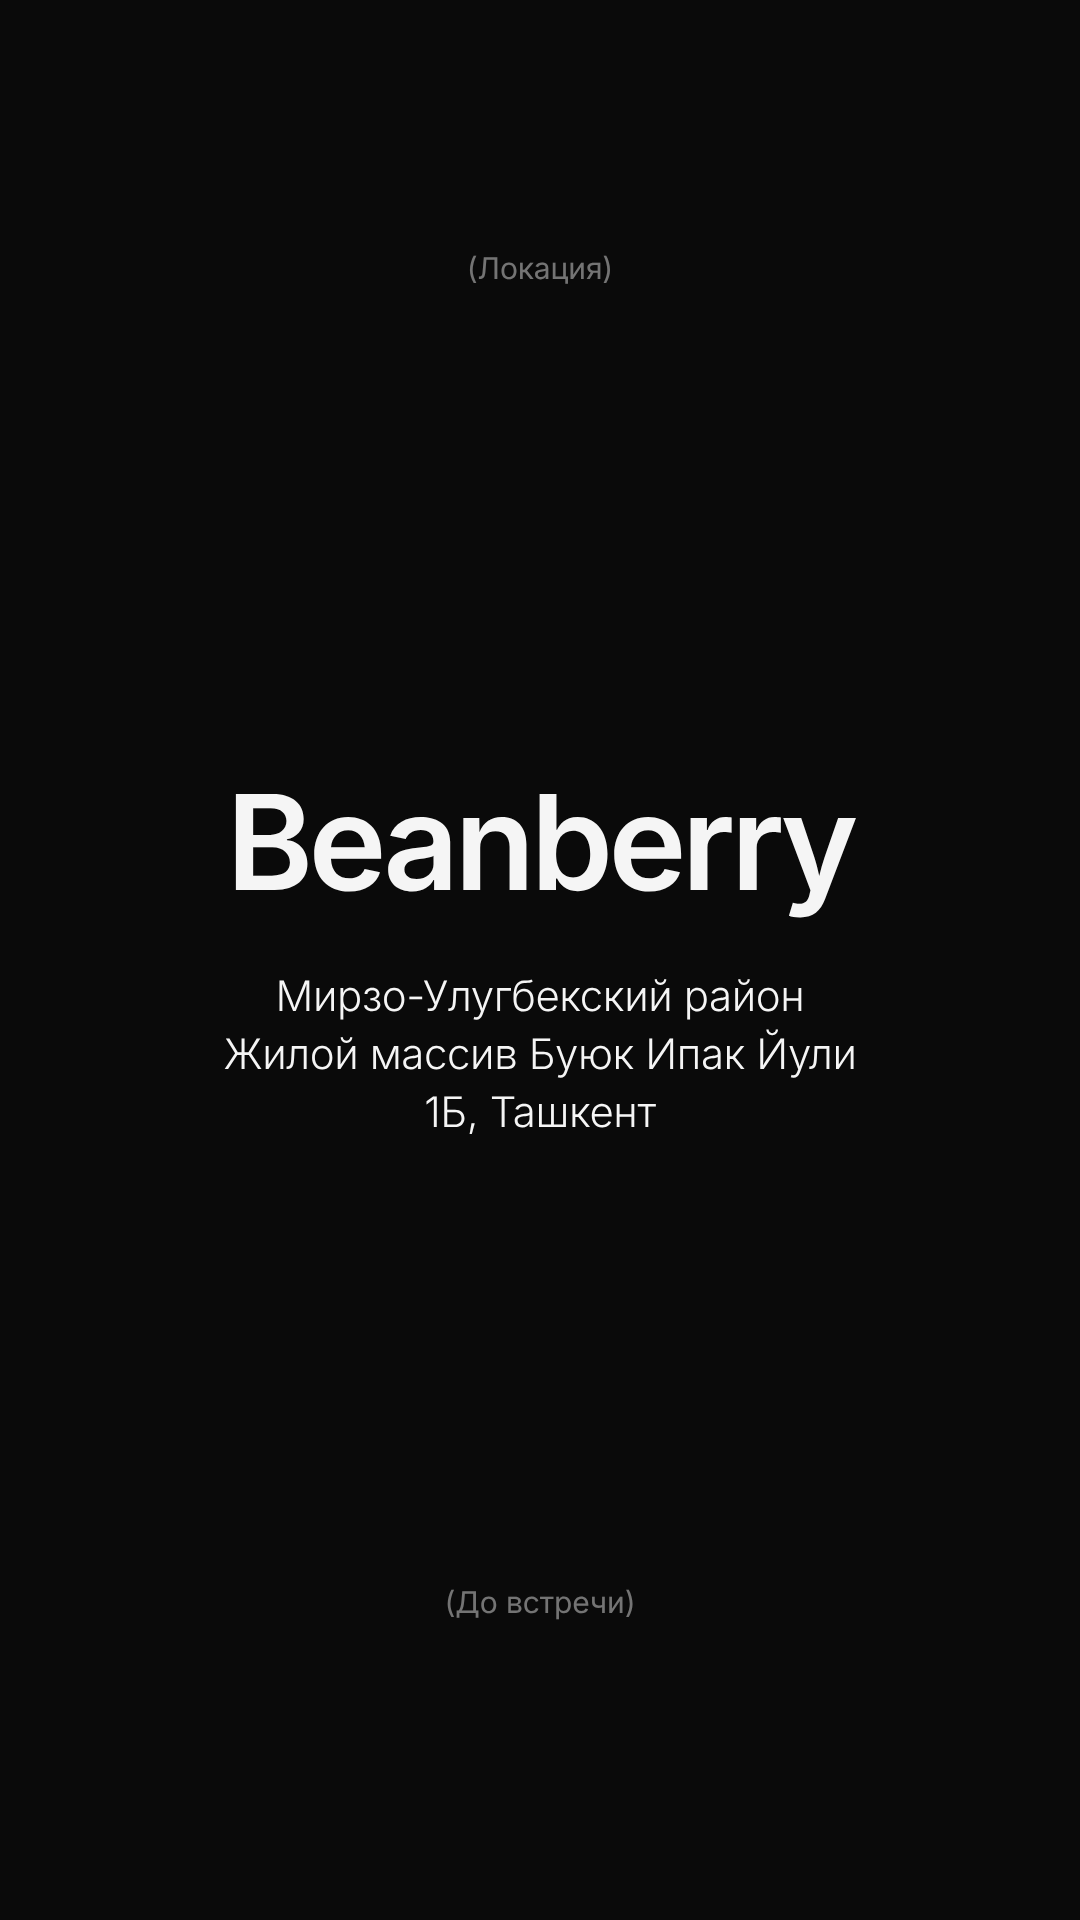
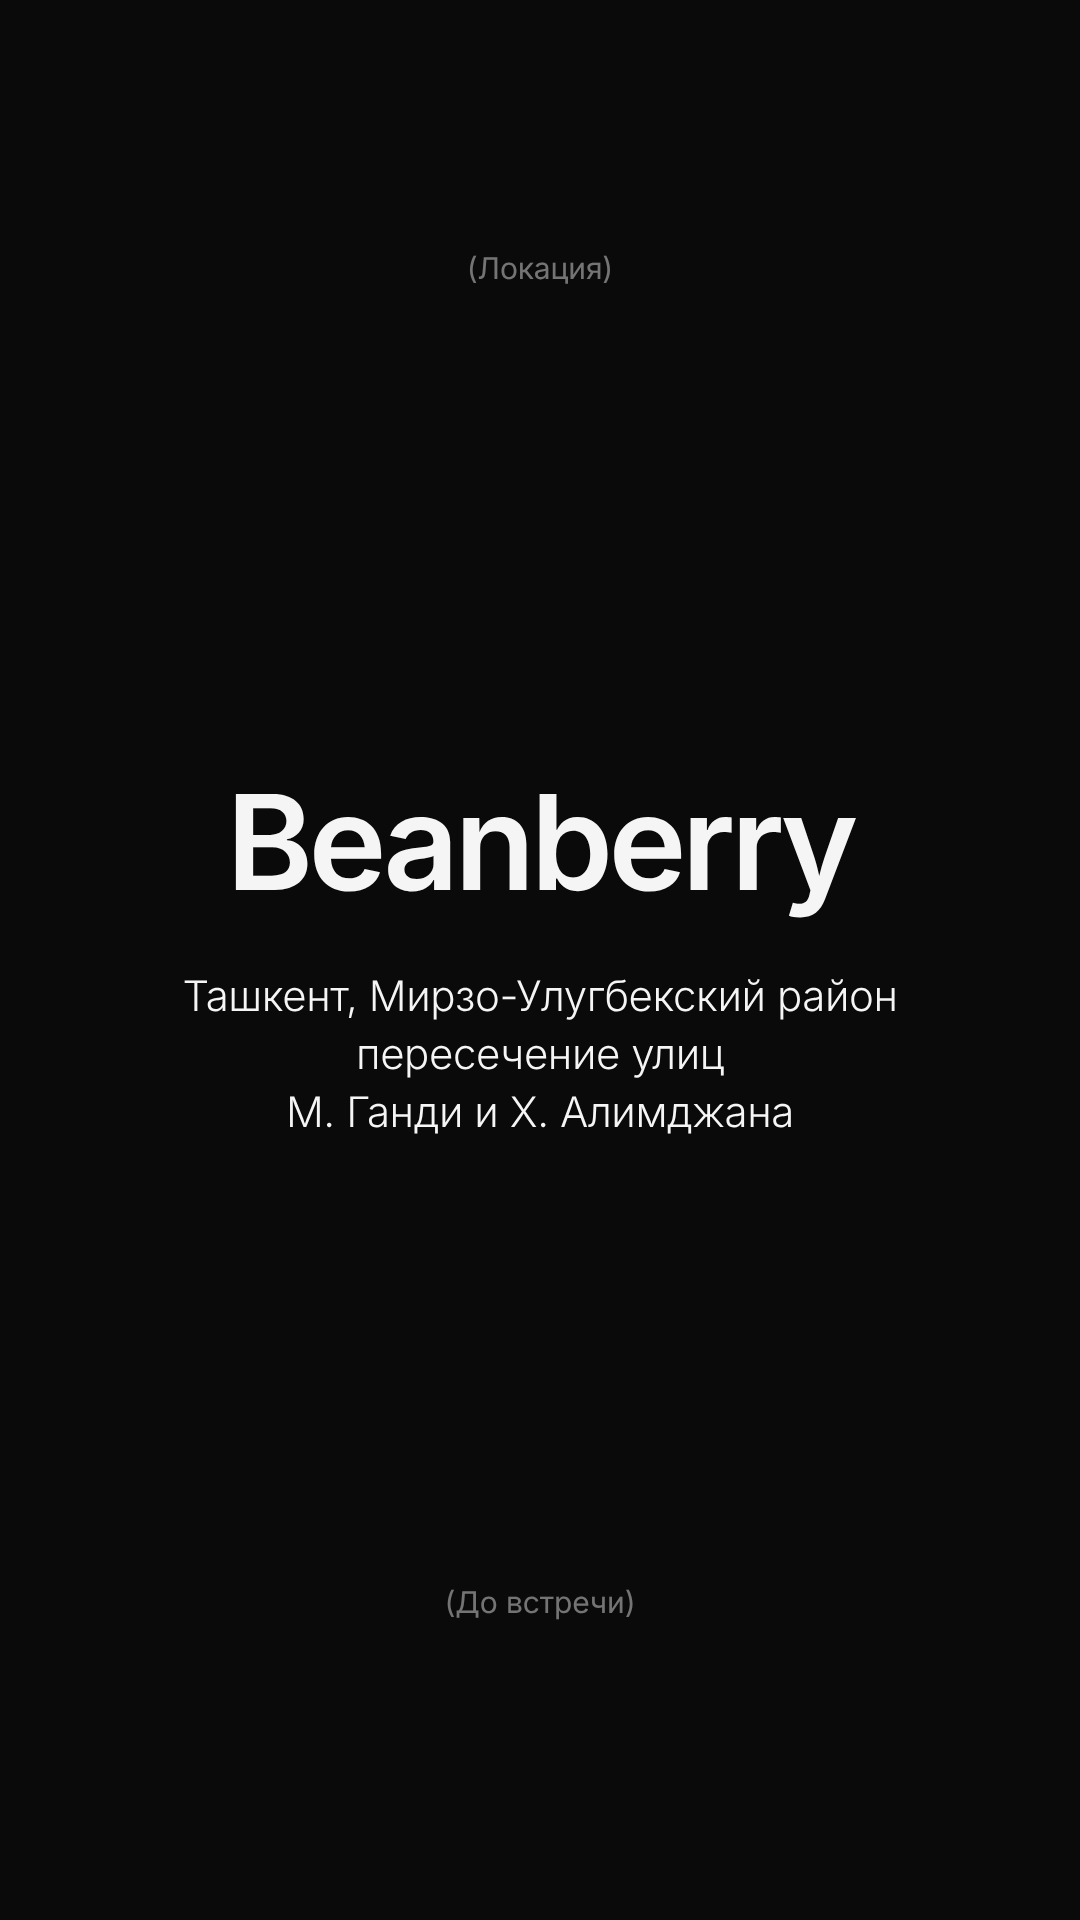
design: use official intersection address in Russian variant
Claude-Session: https://claude.ai/code/session_016hDDYxXRao7raJTtdDbdUH

Changed region(s): [[0.1833, 0.5, 0.825, 0.5938]]

diff --git a/beanberry-design/minimal/variant-06-ru.html b/beanberry-design/minimal/variant-06-ru.html
@@ -24,7 +24,7 @@ body{background:#888}
   <div class="abs" style="left:0;right:0;top:50%;transform:translateY(-50%);text-align:center">
     <div class="sb disp" style="font-size:132px">Beanberry</div>
     <div class="l" style="font-size:42px;line-height:1.38;margin-top:60px;letter-spacing:-.01em">
-      Мирзо-Улугбекский район<br>Жилой массив Буюк Ипак Йули<br>1Б, Ташкент
+      Ташкент, Мирзо-Улугбекский район<br>пересечение улиц<br>М. Ганди и Х. Алимджана
     </div>
   </div>
   <div class="abs lab dim" style="bottom:300px;left:0;right:0;text-align:center">(До встречи)</div>
